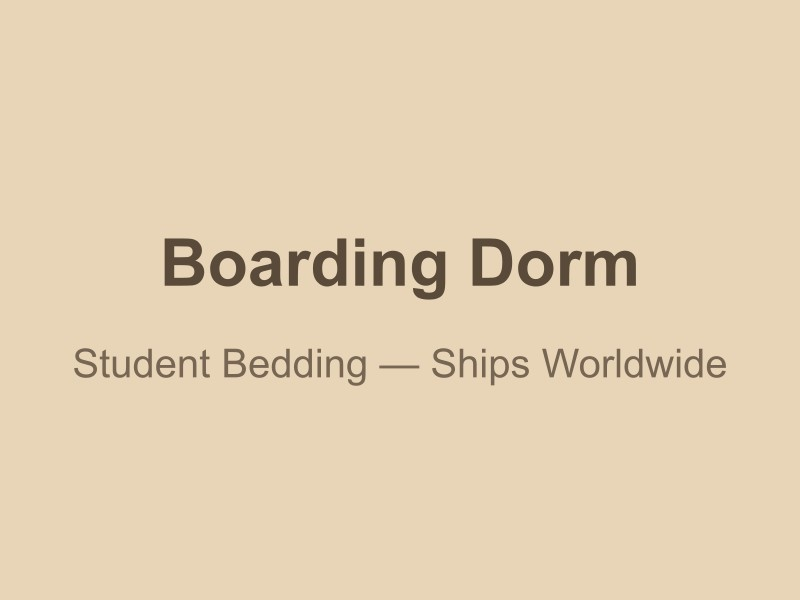
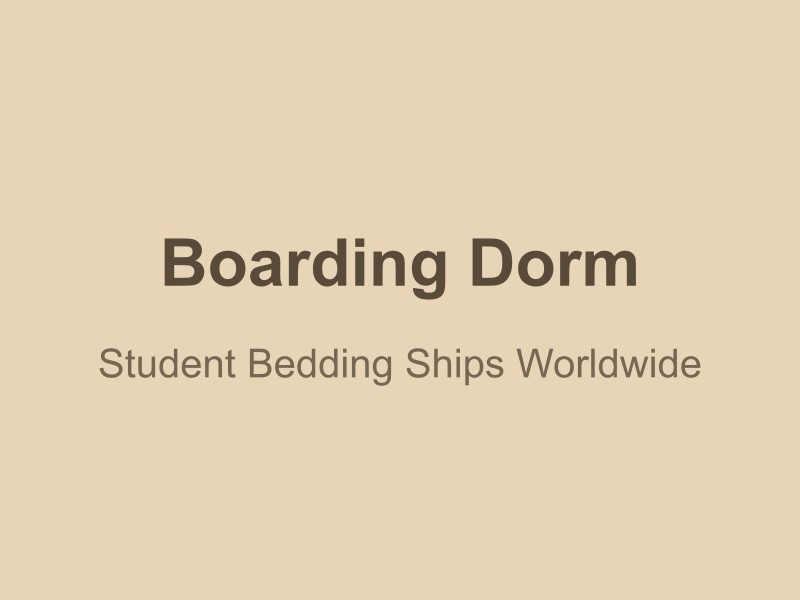
fix: update homepage Boarding Dorm and Deep Pocket cards to use correct category image filenames

Changed region(s): [[0.0938, 0.57, 0.9062, 0.66]]

diff --git a/public/index.html b/public/index.html
@@ -222,13 +222,13 @@
           </a>
           <a href="/deep-pocket/" class="category-card">
             <div class="category-image">
-              <img src="/images/categories/category-duvet.jpg" alt="Deep Pocket & Adjustable Base bedding" width="800" height="600" loading="lazy" decoding="async">
+              <img src="/images/Categories/category-deep-pocket.jpg" alt="Deep Pocket & Adjustable Base bedding" width="800" height="600" loading="lazy" decoding="async">
             </div>
             <div class="category-label">Deep Pocket</div>
           </a>
           <a href="/boarding-dorm/" class="category-card">
             <div class="category-image">
-              <img src="/images/Categories/category-ibs.jpg" alt="Boarding dorm bedding" width="800" height="600" loading="lazy" decoding="async">
+              <img src="/images/Categories/category-boarding-dorm.jpg" alt="Boarding dorm bedding" width="800" height="600" loading="lazy" decoding="async">
             </div>
             <div class="category-label">Boarding Dorm</div>
           </a>